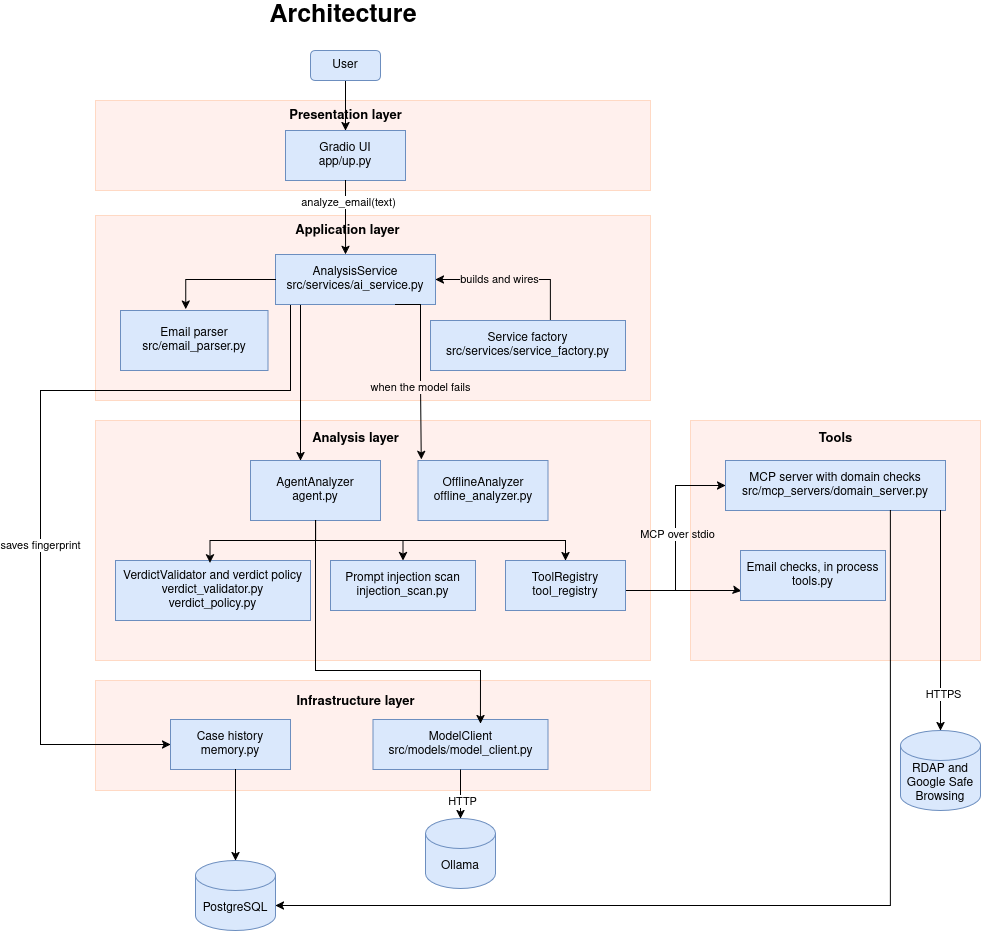
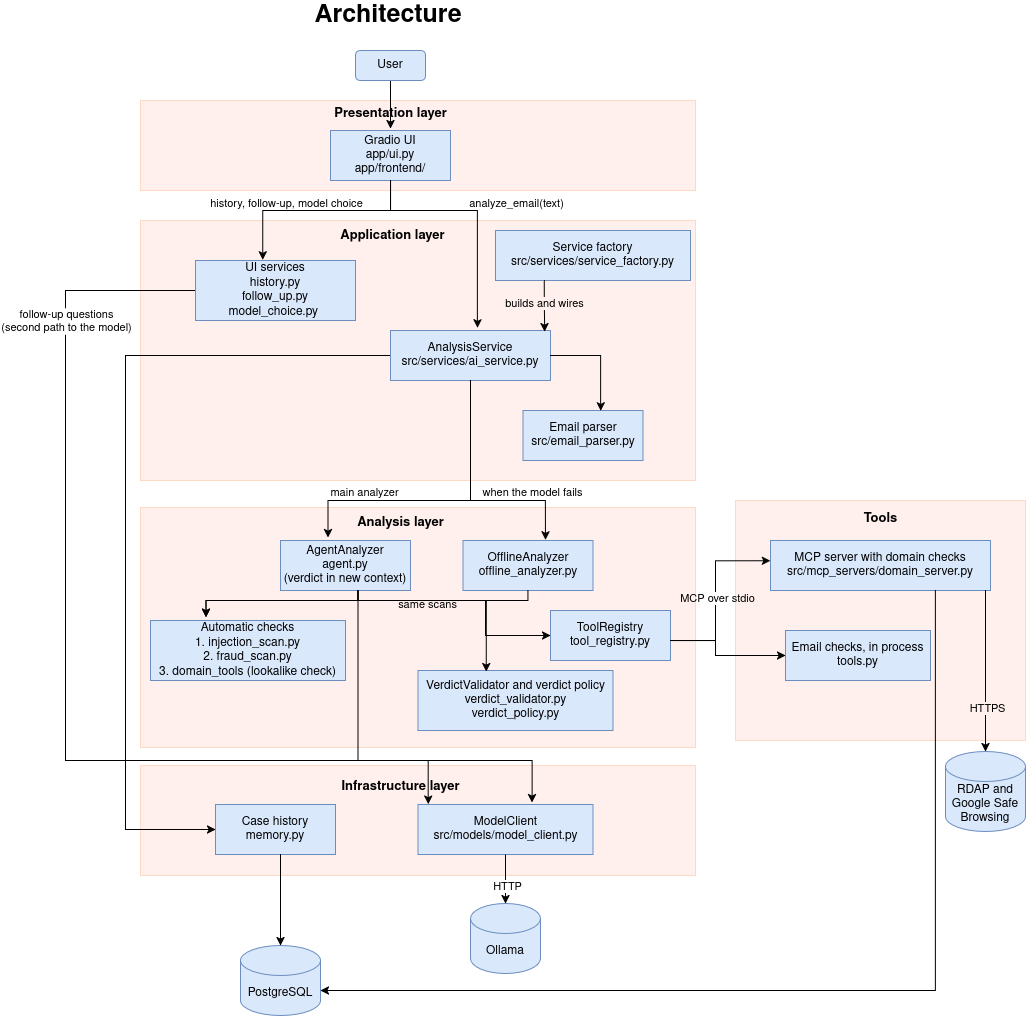
update docs and diagrams

Changed region(s): [[0.0, 0.0, 1.0, 1.0], [0.0, 0.5607, 0.0916, 0.5918]]

diff --git a/app/frontend/app.js b/app/frontend/app.js
@@ -23,6 +23,7 @@
     filter: 'all',
     search: '',
     noteOpen: readNoteSetting(),
+    notePos: readNotePosition(),
     asking: {},
     collapsed: { emails: false, campaigns: false },
   };
@@ -62,6 +63,19 @@
   }
   function saveNoteSetting(open) {
     try { localStorage.setItem('stp-note', open ? 'open' : 'closed'); } catch (error) { /* ignore */ }
+  }
+  function readNotePosition() {
+    try {
+      const saved = JSON.parse(localStorage.getItem('stp-note-pos') || 'null');
+      if (saved && typeof saved.x === 'number' && typeof saved.y === 'number') return saved;
+    } catch (error) { /* ignore */ }
+    return null;
+  }
+  function saveNotePosition(position) {
+    try {
+      if (position) localStorage.setItem('stp-note-pos', JSON.stringify(position));
+      else localStorage.removeItem('stp-note-pos');
+    } catch (error) { /* ignore */ }
   }
   function esc(value) {
     return String(value == null ? '' : value)
@@ -140,6 +154,31 @@
     if (helpNote.parentElement !== home) home.appendChild(helpNote);
     helpNote.classList.toggle('open', chatPage && state.noteOpen);
     root.querySelector('[data-help]').setAttribute('aria-pressed', state.noteOpen ? 'true' : 'false');
+    applyNotePosition();
+  }
+
+  function keepNoteOnScreen(position) {
+    const width = helpNote.offsetWidth || 344;
+    const height = helpNote.offsetHeight || 273;
+    const maxX = Math.max(0, window.innerWidth - width);
+    const maxY = Math.max(0, window.innerHeight - height);
+    return {
+      x: Math.min(Math.max(0, position.x), maxX),
+      y: Math.min(Math.max(0, position.y), maxY),
+    };
+  }
+
+  function applyNotePosition() {
+    if (!state.notePos) {
+      helpNote.classList.remove('dragged');
+      helpNote.style.left = '';
+      helpNote.style.top = '';
+      return;
+    }
+    const position = keepNoteOnScreen(state.notePos);
+    helpNote.classList.add('dragged');
+    helpNote.style.left = position.x + 'px';
+    helpNote.style.top = position.y + 'px';
   }
 
   function setNote(open) {
@@ -557,6 +596,40 @@
   });
 
   helpNote.innerHTML = noteHtml();
+  helpNote.title = 'Drag to move. Double-click to put it back.';
+
+  let noteDrag = null;
+  helpNote.addEventListener('pointerdown', function (event) {
+    if (event.button !== 0 || event.target.closest('[data-note-close]')) return;
+    const rect = helpNote.getBoundingClientRect();
+    noteDrag = { offsetX: event.clientX - rect.left, offsetY: event.clientY - rect.top, moved: false };
+    helpNote.setPointerCapture(event.pointerId);
+    event.preventDefault();
+  });
+  helpNote.addEventListener('pointermove', function (event) {
+    if (!noteDrag) return;
+    noteDrag.moved = true;
+    helpNote.classList.add('dragging');
+    state.notePos = keepNoteOnScreen({ x: event.clientX - noteDrag.offsetX, y: event.clientY - noteDrag.offsetY });
+    applyNotePosition();
+  });
+  function endNoteDrag() {
+    if (!noteDrag) return;
+    if (noteDrag.moved) saveNotePosition(state.notePos);
+    noteDrag = null;
+    helpNote.classList.remove('dragging');
+  }
+  helpNote.addEventListener('pointerup', endNoteDrag);
+  helpNote.addEventListener('pointercancel', endNoteDrag);
+  helpNote.addEventListener('dblclick', function (event) {
+    if (event.target.closest('[data-note-close]')) return;
+    state.notePos = null;
+    saveNotePosition(null);
+    applyNotePosition();
+  });
+  window.addEventListener('resize', function () {
+    if (state.notePos) applyNotePosition();
+  });
   window.addEventListener('hashchange', render);
 
   render();

diff --git a/app/frontend/app.css b/app/frontend/app.css
@@ -253,7 +253,12 @@ footer, .gradio-container footer, .toast-wrap, .loading-wrap { display: none !im
   transition: opacity .25s ease, transform .3s cubic-bezier(.2, .8, .2, 1), visibility 0s;
   pointer-events: auto;
 }
+.note.open { cursor: grab; touch-action: none; user-select: none; }
+.note.dragging { cursor: grabbing; transition: none; }
+.note.dragged, .note-slot .note.dragged { position: fixed; right: auto; bottom: auto; }
+.note-slot:has(.note.dragged) { min-height: 0; }
 .note-close {
+  cursor: pointer;
   position: absolute; top: 36px; right: 26px;
   border: 0; background: transparent; font-size: 20px; line-height: 1; color: #333; padding: 2px 5px;
   border-radius: 4px; z-index: 2;

diff --git a/tests/test_tools.py b/tests/test_tools.py
@@ -1,9 +1,10 @@
-"""Unit test for email inspection tools and pipeline fallback."""
+"""Unit tests for the email inspection tools and the offline fallback of the app."""
 
 from pathlib import Path
 from src.capabilities.tools import (analyze_links, check_email_authentication, inspect_attachments)
 from src.email_parser import parse_email
-from src.pipeline import run_offline_fallback
+from src.services.service_factory import build_components
+from tests.fakes import ScriptedModelClient
 
 PROJECT_ROOT = Path(__file__).resolve().parents[1]
 CASES_DIR = PROJECT_ROOT / "evaluation" / "cases"
@@ -56,11 +57,13 @@ def test_tool_headerless_raw_text():
     assert link_res.details["shorteners"] >=1
 
 def test_offline_fallback_verdict():
-    """Offline fallback should produce valid Verdict objects."""
+    """The offline fallback that the app really uses should produce a valid Verdict."""
 
     email_data = parse_email(CASES_DIR / "31-attachment-double-ext.eml")
-    verdict = run_offline_fallback(email_data)
+    components = build_components(model_client=ScriptedModelClient([]), start_domain_server=False)
+    verdict = components.fallback.analyze(email_data).verdict
     assert verdict.is_fallback is True
     assert verdict.verdict == "phishing"
     assert verdict.risk_score >= 65.0
-    assert len(verdict.tools_run) == 3
+    assert "inspect_attachments" in verdict.tools_run
+    assert "scan_prompt_injection" in verdict.tools_run

diff --git a/README.md b/README.md
@@ -132,6 +132,7 @@ The interface follows our Figma design. It is still a Gradio app (`python -m app
 
 - **Analyze:** paste an email, upload or drop an `.eml` file, pick an installed Ollama model and get the verdict, evidence and investigation trace. Follow-up questions about the email (for example "What if I already clicked?") are answered by the model in `src/services/follow_up.py`, with the email passed as untrusted data.
 - **Previous Chats:** every email analysed while the app is running, with filter and search.
+- **Help note:** the "How it works" note can be dragged anywhere on the page, so it never covers a result. A double-click puts it back, and the Help button shows or hides it.
 - **Campaigns:** phishing and suspicious emails of the session that share a sender domain, a link domain or a subject pattern are grouped (`src/services/history.py`).
 
 Previous chats and campaigns are session state. They live only in the running process and are gone after a restart. The persistent case history in PostgreSQL still stores fingerprints only. The fonts (Inter, Inria Serif, DM Serif Display, JetBrains Mono, SIL Open Font License) are bundled in `app/frontend/fonts/`, so the page also works offline. The UI needs Gradio 6.30 or newer: `pip install -U "gradio>=6.30,<7"`.
@@ -178,13 +179,13 @@ Application Service (src/services/ai_service.py)
 ## Model
 
 - **Model used:** `qwen2.5:3b`, running locally through Ollama. `qwen3:8b` can be used instead by changing `MODEL_NAME`, without any code change.
-- **Why the 3B model:** We started with `qwen3:8b`. On our laptops without a graphics card, one analysis took around 3 minutes, which is too long for a user who wants to know whether to click a link. `qwen2.5:3b` needs about 60 seconds. Because the application checks every decision, every piece of evidence and every verdict itself, a smaller model has less room to make dangerous mistakes. The larger model judges difficult emails better, as our evaluation shows, so the choice is a trade-off between speed and accuracy.
+- **Why the 3B model:** We started with `qwen3:8b`. On our laptops without a graphics card, one analysis took around 3 minutes (median 161 to 172 seconds in our evaluation runs), which is too long for a user who wants to know whether to click a link. `qwen2.5:3b` needs about 1 to 2 minutes (median 72 to 115 seconds, depending on the run). Because the application checks every decision, every piece of evidence and every verdict itself, a smaller model has less room to make dangerous mistakes. The larger model judges difficult emails better, as our evaluation shows, so the choice is a trade-off between speed and accuracy.
 - **Selection rationale:**
   - **Privacy:** Emails may contain personal and confidential data. Running the model locally through Ollama keeps the email and its analysis on the user's machine instead of sending them to a third-party LLM API.
-  - **Structured output:** The agent loop depends on reliable JSON decisions and a schema-conformant final report. Qwen3 supports structured output in Ollama, and the schema even limits the model to the real tool names.
+  - **Structured output:** The agent loop depends on reliable JSON decisions and a schema-conformant final report. Ollama supports structured output for both Qwen2.5 and Qwen3: every request carries a JSON schema, and the schema even limits the model to the real tool names.
   - **Small and fast:** The 3B model runs on a normal laptop with 8 GB RAM and answers fast enough for an interactive tool. The facts come from the tools, so the model mainly has to choose checks, read the language of the email and explain the result.
   - **Configurability:** The model is set through environment variables, so `qwen2.5:3b` and `qwen3:8b` can be compared without changing the application.
-- **Evaluation result:** with the same code, `qwen3:8b` passed 9 of our 10 test emails without a false alarm, `qwen2.5:3b` only 6 of 10. The 8B model took about three minutes per email on our laptops instead of one to two. We therefore keep the 3B model as the default for laptops without a graphics card and recommend `qwen3:8b` whenever the hardware allows it (see [`evaluation/evaluation_results.md`](evaluation/evaluation_results.md)).
+- **Evaluation result:** we compared both models with the same code in two runs on the same 10 test emails. In Run E (one run per email), `qwen3:8b` passed all grading rules for 9 of 10 emails without a false alarm, `qwen2.5:3b` only for 6 of 10. In Run G (three runs per email with `qwen2.5:3b`, one with `qwen3:8b`), `qwen3:8b` gave the right verdict for all 10 emails (9 of 10 passed every grading rule), while `qwen2.5:3b` gave a wrong verdict in 5 of 29 runs. The 8B model took about three minutes per email on our laptops instead of one to two. We therefore keep the 3B model as the default for laptops without a graphics card and recommend `qwen3:8b` whenever the hardware allows it (see [`evaluation/evaluation_results.md`](evaluation/evaluation_results.md)).
 - **Settings:** temperature 0 for repeatable results, thinking mode off when a Qwen3 model is used (Qwen2.5 has none), a context window of 8192 tokens and a timeout of 300 seconds per call. All settings can be changed in `.env` (see Decision 9).
 
 ## Additional AI capability
@@ -335,7 +336,7 @@ On the 35 labelled hand-crafted emails (25 phishing, 10 legitimate), one run per
 | Fixed pipeline | 0.943 | 0.92 | 0.00 | 59 s |
 | LLM-only | 0.857 | 0.84 | 0.10 | 26 s |
 
-The checks matter for what the text alone cannot show: LLM-only missed a dangerous attachment and a phishing link at the end of a long email, which the tool-based configurations found. The first version of the agent never missed a phishing email but rated five of ten genuine emails as phishing. The model had requested the verdict in the same conversation as its own guesses during the investigation. After we moved the verdict into a fresh context with only the email and the check results (Decision 10), the agent raised no false alarm any more, but it missed four phishing emails, which it rated likely safe at the top of that band (risk 39). In both versions the agent did not beat the fixed pipeline. When we repeated ten of the emails three times each, two of them changed their verdict between runs and a third was missed every time, while `qwen3:8b` judged all ten correctly. The sample is small and every email ran once, so these differences are not reliable. The details and limitations are in [`evaluation/evaluation_results.md`](evaluation/evaluation_results.md).
+The checks matter for what the text alone cannot show: LLM-only missed a dangerous attachment and a phishing link at the end of a long email, which the tool-based configurations found. The first version of the agent never missed a phishing email but rated five of ten genuine emails as phishing. The model had requested the verdict in the same conversation as its own guesses during the investigation. After we moved the verdict into a fresh context with only the email and the check results (Decision 10), the agent raised no false alarm any more, but it missed four phishing emails, which it rated likely safe at the top of that band (risk 39). In both versions the agent did not beat the fixed pipeline. When we repeated ten of the emails three times each, two of them changed their verdict between runs and a third was missed every time, while `qwen3:8b` gave the right verdict for all ten in its single run. The sample is small and every email ran once, so these differences are not reliable. The details and limitations are in [`evaluation/evaluation_results.md`](evaluation/evaluation_results.md).
 
 ### Dataset
 The evaluation uses two data sources, because each one covers a different part of the application:
@@ -346,7 +347,7 @@ The evaluation uses two data sources, because each one covers a different part o
 | Hand-crafted `.eml` cases in `evaluation/cases` | 38 emails written by the team with full headers, using fictional `.example` domains for suspicious senders and links (only one spoofing case uses a free-mail address) | Authentication, link, domain, attachment and campaign checks, prompt injection, difficult and adversarial cases |
 
 The validation dataset contains only email text, so it cannot test header, link or attachment checks. The hand-crafted cases cover these checks.
-The evaluation runner can draw a stratified sample of the dataset with a fixed seed (`--zenodo`), so every run sees the same emails. Because every email takes about a minute on a laptop without a graphics card, the reported comparison uses only the hand-crafted emails. The Zenodo sample is listed as an open action item.
+The evaluation runner can draw a stratified sample of the dataset with a fixed seed (`--zenodo`), so every run sees the same emails. Because every email takes one to two minutes on a laptop without a graphics card, the reported comparison uses only the hand-crafted emails. The Zenodo sample is listed as an open action item.
 Reputation and domain-age results change over time, so the results of the online checks are stored in an evaluation cache and replayed. For the fictional domains they are seeded on purpose (see Decision 8).
 
 Dataset sources and licenses are documented in [`data/README.md`](data/README.md).
@@ -391,7 +392,7 @@ Each case records the expected behaviour, grading rules, the actual result and a
 - Emails pasted without headers cannot be checked for authentication results, which weakens the assessment.
 - Phishing sent from compromised legitimate accounts passes authentication and domain checks, so detection then depends mainly on the language analysis.
 - A small local model (3B) may produce invalid actions or miss subtle manipulation. The validation, step limits and fallback limit the impact, but they do not eliminate errors.
-- On a computer without a graphics card, the model runs on the processor. In our evaluation with `qwen2.5:3b`, one analysis took between about 40 seconds and 3 minutes, with a median of 77 to 140 seconds depending on the run.
+- On a computer without a graphics card, the model runs on the processor. In our evaluation with `qwen2.5:3b`, one analysis took between about 40 seconds and 3 minutes, with a median of 72 to 140 seconds depending on the run.
 - The judgement of the 3B model varies between runs and is sensitive to the wording of the prompt. In our evaluation it rated a genuine password reset as phishing in three runs in a row (case-23), and its explanations sometimes contain claims that no check supports. The deterministic checks and safety rules give the same result every time, so we moved the gift card and payment fraud detection into such a check.
 - In our evaluation of the domain checks, the 3B model rated harmless emails as phishing in 6 of 12 runs, judging from the wording alone (for example a normal invoice request), and it did not always call the online checks. The case history is only used when the model calls the lookup.
 - The case history matches on the sender domain. One phishing email from a hacked account of a real organisation can therefore make later genuine emails from that organisation look like a known campaign (case-22). Ignoring the sender domain of well-known domains, as is already done for link domains, would prevent this.

diff --git a/docs/project-decisions.md b/docs/project-decisions.md
@@ -34,11 +34,11 @@ We use `qwen2.5:3b`, running locally through Ollama. The model is set through th
 
 **Why we chose this:**
 - **Privacy:** Emails can contain personal and confidential data. Running the model locally keeps the email and its analysis on the user's machine instead of sending it to a third-party API.
-- **Waiting time:** We started with `qwen3:8b`. On our laptops without a graphics card, one analysis took around 3 minutes, because the agent needs several model calls. A user who wants to know whether to click a link will not wait that long. `qwen2.5:3b` needs about 60 seconds for the same analysis.
+- **Waiting time:** We started with `qwen3:8b`. On our laptops without a graphics card, one analysis took around 3 minutes (median 161 to 172 seconds in our evaluation runs), because the agent needs several model calls. A user who wants to know whether to click a link will not wait that long. `qwen2.5:3b` needs about 1 to 2 minutes for the same analysis (median 72 to 115 seconds, depending on the run).
 - **The application does the safety work:** The facts come from deterministic tools, every decision is validated, every evidence item must be grounded and the safety rules cannot be overridden. The model mainly chooses checks, reads the language of the email and explains the result, so a small model is sufficient. The larger model still judges difficult emails better, so the choice is a trade-off between speed and accuracy (see Evaluation below).
 - **Structured output:** Our agent loop needs reliable JSON decisions and a schema-conformant final report. Qwen2.5 and Qwen3 both support structured output in Ollama.
 - **Configurability:** Because the model is set via environment variables, we can compare `qwen2.5:3b` and `qwen3:8b` without changing the application.
-- **Evaluation:** We ran our test emails with both models and the same code. `qwen3:8b` passed 9 of 10 without a false alarm, `qwen2.5:3b` 6 of 10, but the 8B model was about 1.5 to 2 times slower. A later repetition with three runs per email and an empty case history confirmed this: `qwen3:8b` judged all ten emails correctly, while `qwen2.5:3b` gave a wrong verdict in 5 of 29 runs. The 3B model stays the default for laptops without a graphics card, and `qwen3:8b` is recommended when the hardware allows it.
+- **Evaluation:** We ran our 10 test emails with both models and the same code. In Run E (one run per email), `qwen3:8b` passed all grading rules for 9 of 10 emails without a false alarm, `qwen2.5:3b` for 6 of 10, but the 8B model was about 1.5 to 2 times slower. Run G repeated this with three runs per email for `qwen2.5:3b`, one run for `qwen3:8b` and an empty case history, and confirmed it: `qwen3:8b` gave the right verdict for all ten emails (9 of 10 passed every grading rule), while `qwen2.5:3b` gave a wrong verdict in 5 of 29 runs. The 3B model stays the default for laptops without a graphics card, and `qwen3:8b` is recommended when the hardware allows it.
 
 Trade-off: a small model can produce invalid actions or miss subtle manipulation more often than a larger one. We limit this with schema validation, a step limit, grounding checks and the offline fallback (see Decisions 10 to 13).
 
@@ -450,7 +450,7 @@ All tests run with pytest and need neither Ollama, the network nor the database:
   - `check_email_authentication`: Pass/fail states for SPF, DKIM, and DMARC; Reply-To and Return-Path domain mismatches; display name spoofing against European brands on free webmail.
   - `analyze_links`: Flagging anchor text discrepancies, URL shorteners, and raw IP URLs.
   - `inspect_attachments`: Identifying double extensions (`.pdf.exe`), executable binaries, macros, and archives.
-  - `run_offline_fallback`: Verifying mathematical risk aggregation and valid `Verdict` generation.
+  - Offline fallback: the fallback that the app really uses (`OfflineAnalyzer`, built by the service factory) produces a valid, labelled `Verdict` for a dangerous attachment. The aggregation rules of the fallback are tested in `tests/test_offline_analyzer.py`.
 
 ### Hand-crafted cases
 

diff --git a/docs/architecture.md b/docs/architecture.md
@@ -5,10 +5,11 @@ This document explains how SpotThePhish is built. It describes the layers of the
 
 ## 1. System Overview & Extended Architecture
 
-SpotThePhish extends the course starter template with three integrated AI capabilities:
+SpotThePhish extends the course starter template with four integrated AI capabilities:
 1. **Agentic Workflow:** The model decides which check to run next, based on the observations so far.
 2. **Tool Integration:** Read-only security checks deliver facts about the email, such as authentication results, link targets and domain age.
-3. **Memory / Persistent State:** A case history in PostgreSQL stores a small fingerprint of every validated verdict, so that repeated phishing campaigns can be recognised.
+3. **Model Context Protocol (MCP):** The four domain and history checks, which depend on external systems (RDAP, Google Safe Browsing, PostgreSQL), run in a separate MCP server. The application discovers them with `list_tools()` and calls them through an MCP client.
+4. **Memory / Persistent State:** A case history in PostgreSQL stores a small fingerprint of every validated verdict, so that repeated phishing campaigns can be recognised.
 
 The model never acts on its own. It only proposes the next step. The application decides whether that step is allowed, runs it and checks the final answer before the user sees it.
 

diff --git a/evaluation/evaluation_results.md b/evaluation/evaluation_results.md
@@ -410,7 +410,7 @@ Four runs ended in the offline fallback (case 26 in all three configurations and
 ### Email parsing, local checks, and pipeline fallback (Riana)
 
 **Setup:** Evaluated using both configurations:
-1. **Offline fallback baseline:** Pure deterministic evaluation using `run_offline_fallback` and Person 1's 3 in-process tools (`check_email_authentication`, `analyze_links`, `inspect_attachments`) with 0 model calls.
+1. **Offline fallback baseline:** Pure deterministic evaluation using an early fallback function (`run_offline_fallback`) with the 3 in-process tools (`check_email_authentication`, `analyze_links`, `inspect_attachments`) and 0 model calls. This function was later replaced by the `OfflineAnalyzer` of the application, which additionally runs the prompt injection, payment fraud and lookalike scans, and it was removed from the code.
 2. **AI Agent with model:** Evaluated using `python -m scripts.try_agent --no-domain-server` with `qwen3.5:4b` running locally on Ollama (temperature 0, step budget 6).
 
 #### Results: Offline Fallback vs. AI Agent Comparison

diff --git a/evaluation/README.md b/evaluation/README.md
@@ -65,7 +65,7 @@ Further options: `--configs` (for example `--configs agent llm_only`), `--only` 
 
 **How verdicts become labels.** The application gives three verdicts, but the datasets have two labels. By default, `phishing` and `suspicious` both count as phishing and `likely safe` counts as legitimate, because the user is warned in both of the first two cases. The option `--suspicious-as legitimate` counts a suspicious verdict as legitimate instead, which is the stricter way to measure. Offline fallback runs are included in the main tables, because the user sees that verdict too. A second table counts only the runs where the model answered.
 
-Without a graphics card, qwen2.5:3b needs about a minute per email and configuration, and qwen3:8b around three minutes. Start with a few cases.
+Without a graphics card, qwen2.5:3b needs about one to two minutes per email and configuration, and qwen3:8b around three minutes. Start with a few cases.
 
 To look at single emails in detail, the script try_agent prints the verdict, the evidence, the warnings and the full trace:
 
